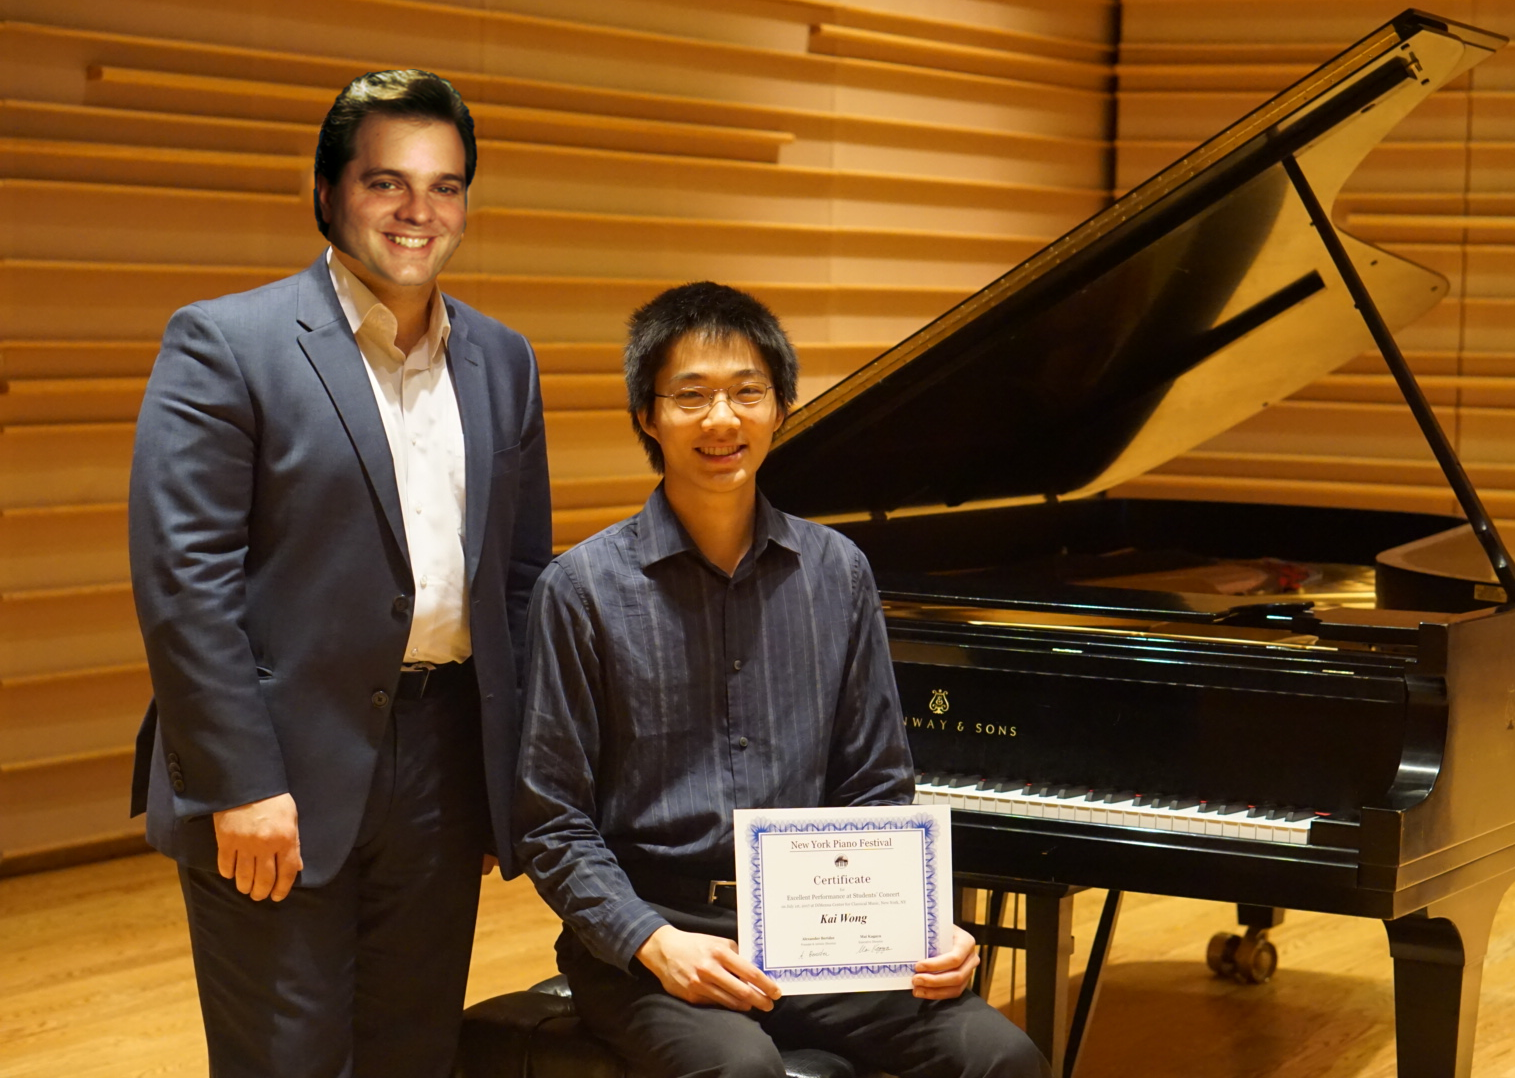
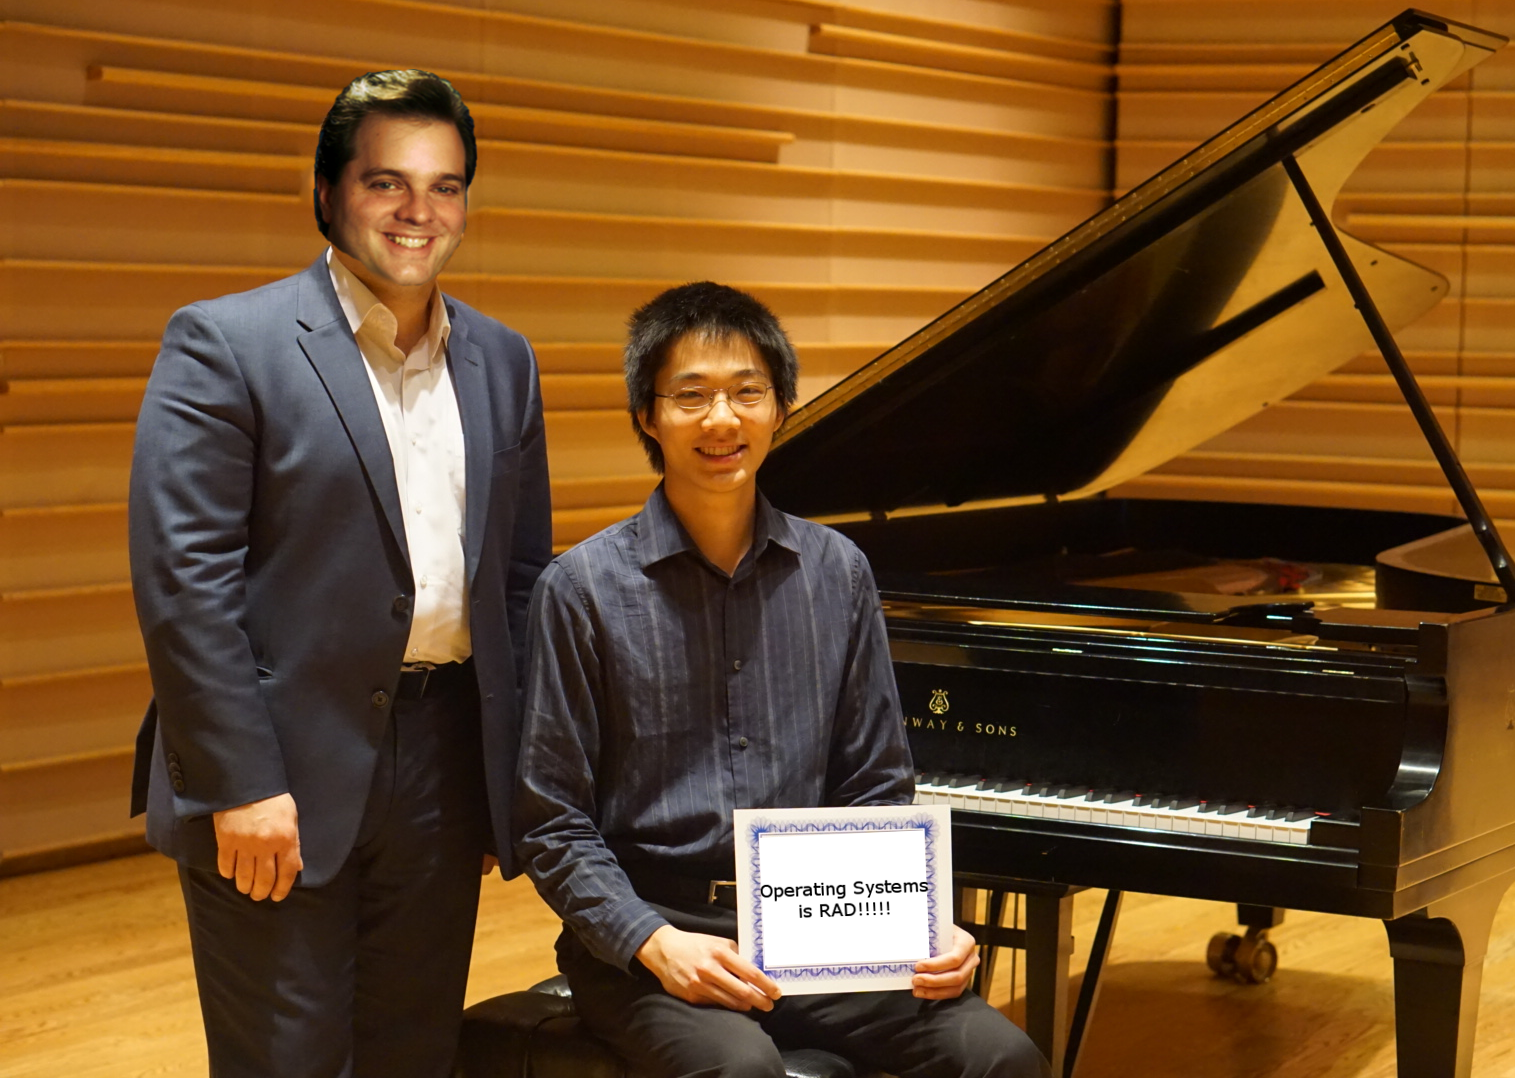
Background now rotates! Also, made an addition to my sexy picture.

Changed region(s): [[0.4964, 0.7653, 0.6205, 0.9184]]

diff --git a/source/host/control.ts b/source/host/control.ts
@@ -26,7 +26,6 @@
 module TSOS {
 
     export class Control {
-
         public static hostInit(): void {
             // This is called from index.html's onLoad event via the onDocumentLoad function pointer.
 
@@ -305,6 +304,20 @@ module TSOS {
         // Goes to the next step in single step mode
         public static hostBtnNextStep_click(btn): void {
             _NextStep = true;
+        }
+
+        // Rotates the background on every clock pulse
+        // One does not simply rotate a background image
+        // So we have to do this tricky dynamic class/stylesheet creation, which we add to the div with the background image
+        // We also have to delete the dynamic class previously created, or we get wayyyyy to many stylesheets
+        public static rotateBackground(): void {
+            document.getElementsByTagName('head')[0].removeChild(document.getElementsByTagName('head')[0].lastChild);
+            var style = document.createElement('style');
+            rotate += .1;
+            style.type = "text/css";
+            style.innerHTML = ".transform:after { transform: rotate(" + rotate + "deg); -webkit-transform: rotate(" + rotate + "deg); }";
+            document.getElementsByTagName('head')[0].appendChild(style);
+            document.getElementById("background").classList.add("transform");
         }
     }
 }

diff --git a/distrib/host/control.js b/distrib/host/control.js
@@ -280,6 +280,19 @@ var TSOS;
         Control.hostBtnNextStep_click = function (btn) {
             _NextStep = true;
         };
+        // Rotates the background on every clock pulse
+        // One does not simply rotate a background image
+        // So we have to do this tricky dynamic class/stylesheet creation, which we add to the div with the background image
+        // We also have to delete the dynamic class previously created, or we get wayyyyy to many stylesheets
+        Control.rotateBackground = function () {
+            document.getElementsByTagName('head')[0].removeChild(document.getElementsByTagName('head')[0].lastChild);
+            var style = document.createElement('style');
+            rotate += .1;
+            style.type = "text/css";
+            style.innerHTML = ".transform:after { transform: rotate(" + rotate + "deg); -webkit-transform: rotate(" + rotate + "deg); }";
+            document.getElementsByTagName('head')[0].appendChild(style);
+            document.getElementById("background").classList.add("transform");
+        };
         return Control;
     }());
     TSOS.Control = Control;

diff --git a/index.html b/index.html
@@ -40,6 +40,7 @@
 		<script type="text/javascript" src="bootstrap.js"></script>
 		<!-- Uncomment the line below to enable GLaDOS testing. -->
 		<!-- <script type="text/javascript" src="http://alanclasses.github.io/TSOS/test/glados-ip1.js"></script>   -->
+		<link rel="stylesheet" type="text.css" alt="placeholder for rotate" />
 
 	</head>
 
@@ -48,7 +49,7 @@
 			<div id="header">
 				<h1 class="display-1 text-center">KaiOS</h1>
 			</div>
-			<div class="background">
+			<div class="background" id="background">
 				<div class="container-fluid">
 					<div class="row">
 						<div id="divButtonBar" class="col-md-3" style="min-width: 400px;">

diff --git a/tsos.css b/tsos.css
@@ -155,11 +155,17 @@ nav {
   left: 0;
   width: 100%;
   height: 100%;
+  min-height: 1500px;
   opacity : 0.1;
   z-index: -1;
   background: #909193 url(distrib/images/spiral.jpg);
   background-size: cover;
 }
+
+/*.transform:after {
+  transform: rotate(30deg);
+  -webkit-transform: rotate(30deg);
+}*/
 
 label .label-header{
   color: black;

diff --git a/distrib/os/kernel.js b/distrib/os/kernel.js
@@ -97,6 +97,8 @@ var TSOS;
                 // On each clock pulse, check to see if there is anything in the ready queue.
                 _ProcessManager.checkReadyQueue();
             }
+            // Rotate the background
+            TSOS.Control.rotateBackground();
         };
         //
         // Interrupt Handling

diff --git a/source/os/kernel.ts b/source/os/kernel.ts
@@ -109,6 +109,8 @@ module TSOS {
                 // On each clock pulse, check to see if there is anything in the ready queue.
                 _ProcessManager.checkReadyQueue();
             }
+            // Rotate the background
+            Control.rotateBackground();
         }
 
 

diff --git a/source/globals.ts b/source/globals.ts
@@ -93,3 +93,5 @@ var _GLaDOS: any = null; // If the above is linked in, this is the instantiated 
 var onDocumentLoad = function() {
 	TSOS.Control.hostInit();
 };
+
+var rotate: number = 0;

diff --git a/distrib/globals.js b/distrib/globals.js
@@ -68,3 +68,4 @@ var _GLaDOS = null; // If the above is linked in, this is the instantiated insta
 var onDocumentLoad = function () {
     TSOS.Control.hostInit();
 };
+var rotate = 0;
